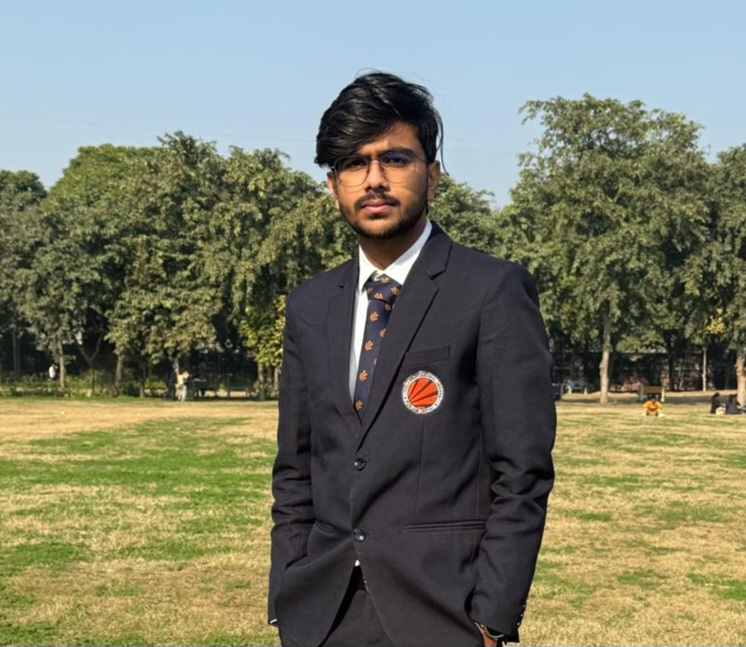
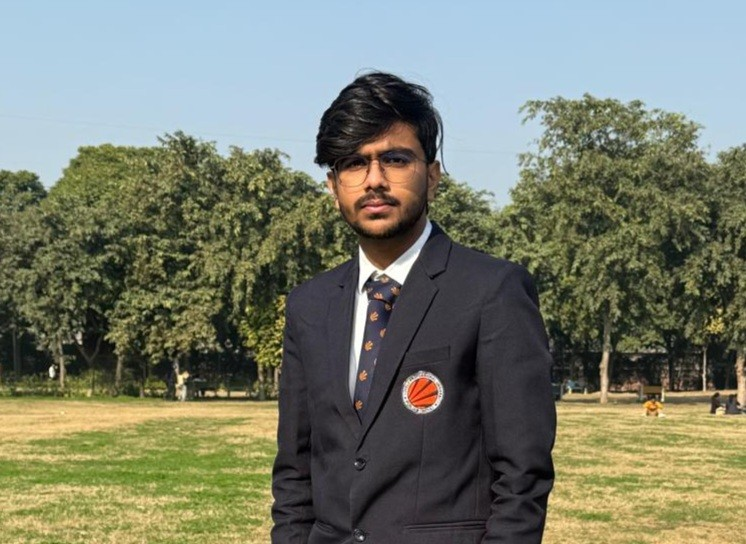
commit

diff --git a/index.html b/index.html
@@ -100,7 +100,7 @@
       <div class="hero-image-side reveal">
         <div class="hero-img-wrap">
           <div class="hero-img-backdrop"></div>
-          <img src="assets/Profile.jpeg" alt="Gajanan Bidwai" />
+          <img src="assets/Profile.jpeg?v=2" alt="Gajanan Bidwai" />
         </div>
       </div>
     </div>
